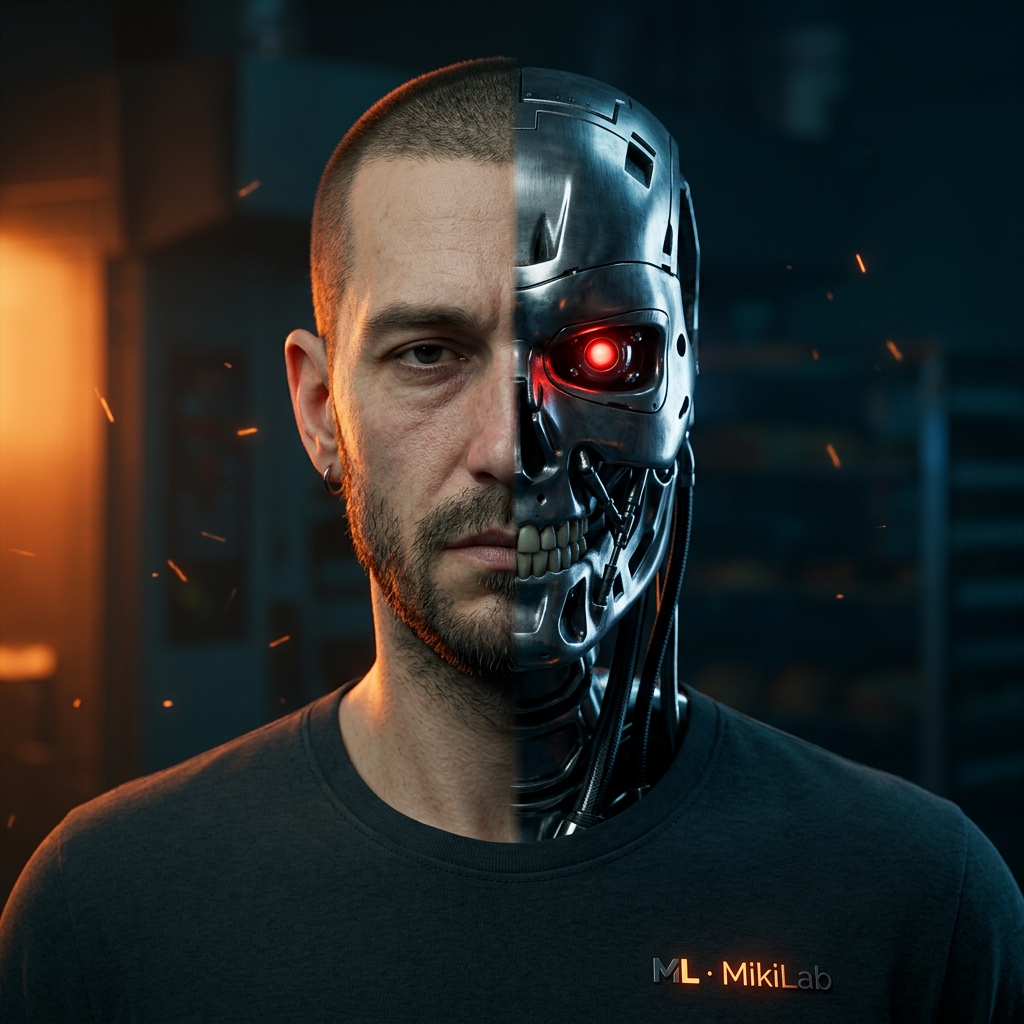
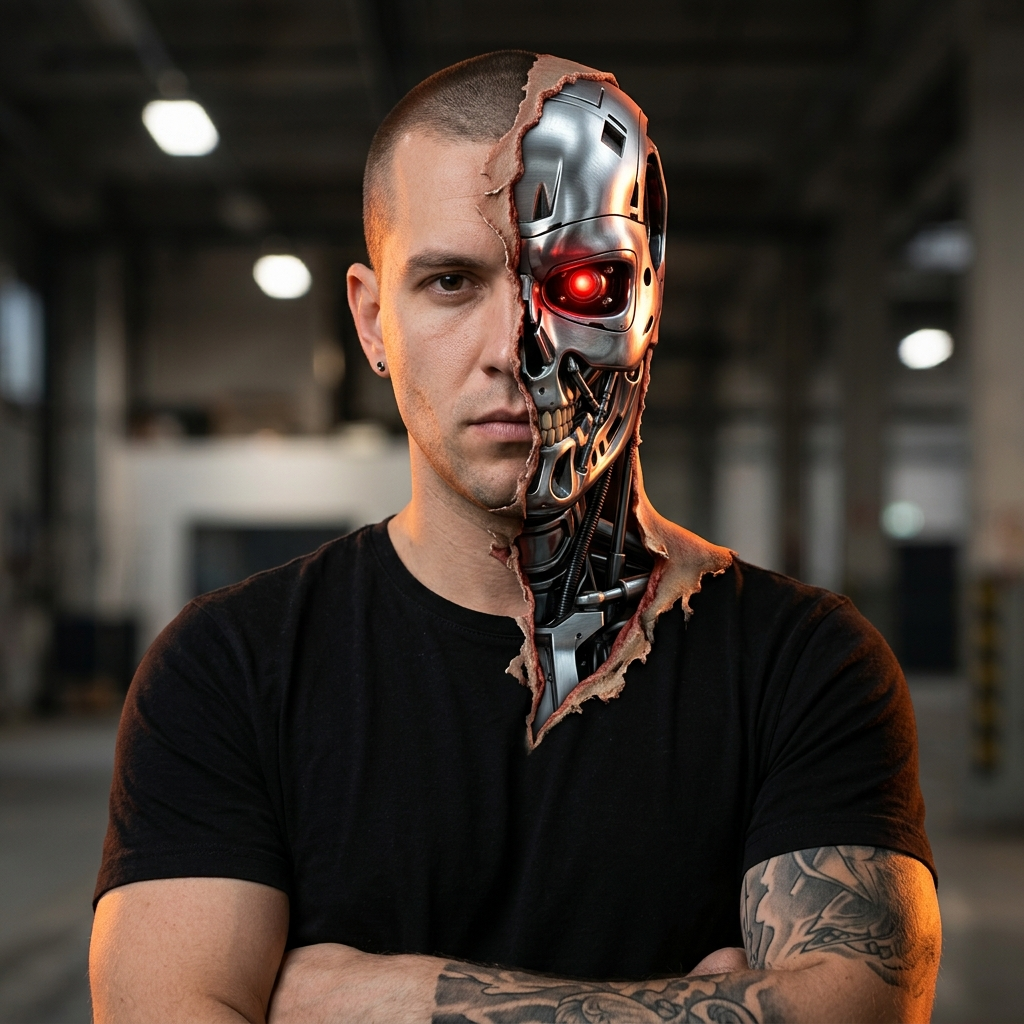
## Miki-Nexus ora è te ✅ - Rigenerato partendo dalla **tua foto reale**: il lato umano è la tua faccia identica, il lato destro è il teschio cromato con **occhio rosso** (posseduto dall'AI), e sul braccio umano c'è il tuo **tatuaggio pantera-serpente** identico a quello del video. - **MikiLab** (il 

diff --git a/frontend/public/sw.js b/frontend/public/sw.js
@@ -1,4 +1,4 @@
-const CACHE_NAME = "mikilab-v36";
+const CACHE_NAME = "mikilab-v41";
 // App shell essenziale: precache così l'app si apre anche senza rete (backstube senza Wi-Fi).
 const SHELL = ["/", "/index.html", "/logo.png", "/manifest.json", "/wheat-bg.webp"];
 

diff --git a/memory/PRD.md b/memory/PRD.md
@@ -4701,4 +4701,10 @@ Stato: interfaccia industrial dark verticale (zero-menu, 3 zone + 12 pannelli Ma
 - **Avatar Miki-Nexus rifatto**: fusione umano/AI che SOMIGLIA a Michele (foto riferimento image-1 (37).jpeg): lato umano con buzz cut, orecchino, barba incolta/trasandata; lato robot cromato con OCCHIO ROSSO luminoso; logo MikiLab sulla maglia. Stile Terminator, tema arancione. Applicato a avatar_nexus.jpg. sw.js → mikilab-v36.
 - **FIX PIN produzione (critico)**: su mikilab.de il PIN 198505 veniva rifiutato perché il DB di produzione aveva un hash diverso. Aggiunto salvagente allo startup (`on_startup_seed_mikilab`): se `ADMIN_GATE_PIN` è nel .env, l'hash in `app_meta.admin_gate_pin` viene SEMPRE riallineato a quel PIN → 198505 funziona sempre dopo ogni deploy. Verificato in preview (ok master).
 - **Rilevato**: il frontend live è una build più vecchia (manca deck/status → 401 via gate, deck-multiverse assente). SERVE la ripubblicazione per portare tutto live.
+
+## v57 (2026-09) — Nexus con la faccia reale di Michele + tatuaggio pantera-serpente
+- Utente: Nexus deve assomigliare al SUO PRIMO avatar (sono la stessa persona, uno più posseduto dall'AI). Recuperato il primo avatar da git (commit 3ec87a3) e usata la foto reale (fyh6ykoj_image-1 (37).jpeg).
+- **avatar_nexus.jpg FINALE**: metà sinistra = faccia reale di Michele (identica alla sua foto), metà destra = teschio cromato stile Terminator con OCCHIO ROSSO. Tatuaggio pantera+serpente (dal video 2026-08-30-083449687.mp4, frame estratto con ffmpeg) sull'avambraccio umano, fedele all'originale (verde/nero con occhi rossi) dopo che la versione "oro" non piaceva.
+- **avatar_miki.jpg RIPRISTINATO** alla versione precedente (commit 4bf4d34) su richiesta: MikiLab resta com'era; il tatuaggio nuovo va SOLO sul metaumano.
+- sw.js → mikilab-v41. Attesa conferma utente sulla somiglianza.
 - Testato via screenshot: share header+vetrina OK, fallback copia-link OK, 0 pageerror, 0 overflow mobile (390). Gate mostra nuovi avatar + bagliori forni + tema arancione.
